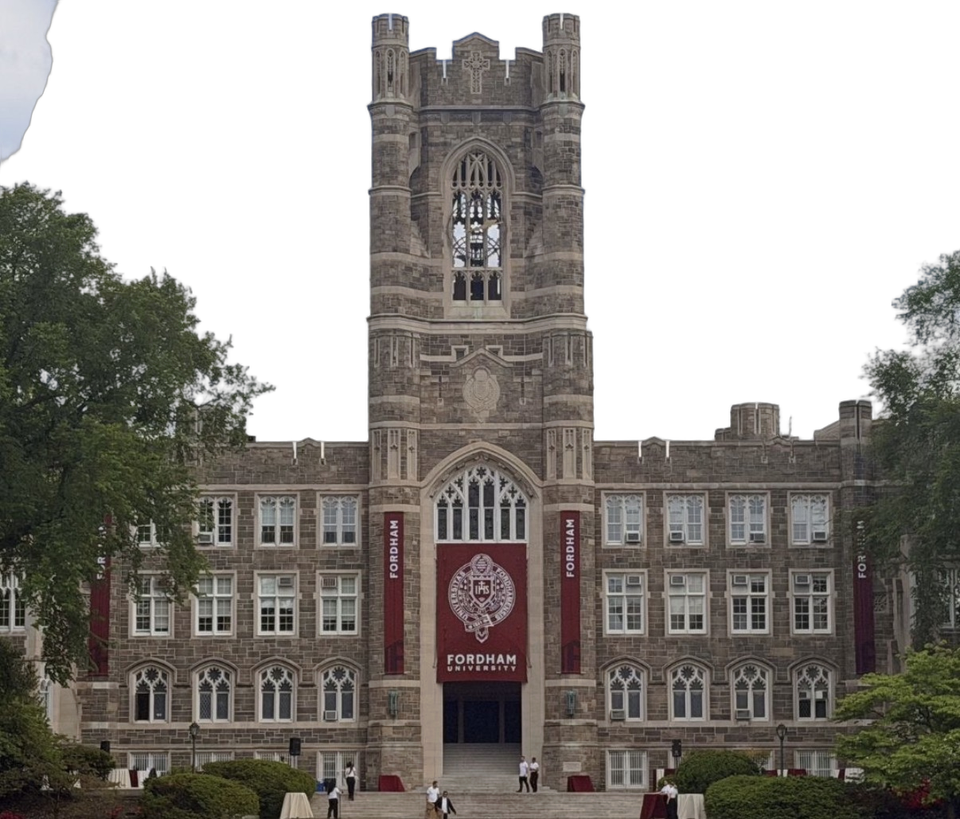
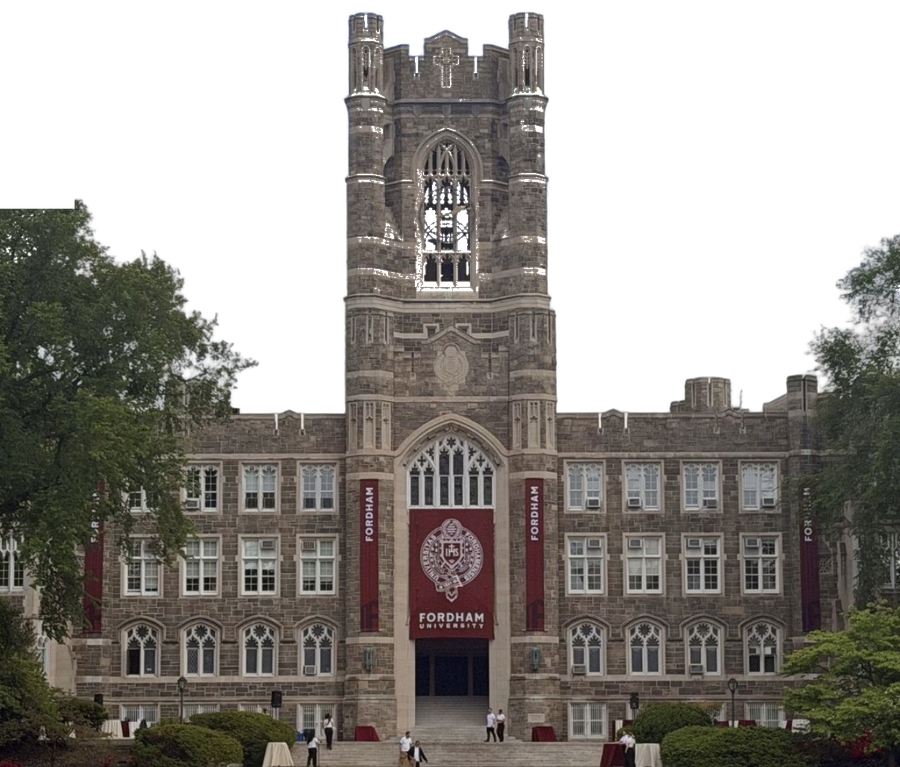
Clean Keating Hall cutout, restore mirrored blob, add Empire State sticker, boost contrast
- Removes the residual sky patch in the Keating Hall cutout: the first
  rembg pass left ~1900 semi-opaque pixels in the top-left corner
  (pure sky, no building/tree content there), cleared with a targeted
  mask. Verified via a real embedded <img> render, not just the file
  preview tool, which turned out to not respect alpha the same way a
  browser does.
- Hero photo caption ("Anvitha Abbagani") moves from the mono font to
  the heading font.
- Brings back the two-petal blob shape behind the building, with its
  rotations negated (mirrored) from the original per request; reduces
  the building/portrait/badge sizes a bit further across desktop and
  mobile.
- Strengthens contrast between the purples: darker page background
  (#1c0f24), lighter/more separated card surfaces (#5c4566), brighter
  and more saturated accent (#b98fcb) — recomputes every hardcoded
  rgba() tied to the old bg/accent values too.
- Adds a small Empire State Building sticker (rembg cutout of the
  user's own photo, purple-lit spire), scattered 3 times (Projects,
  Skills, Certifications). Anchored to each section's bottom rather
  than top — a top anchor would sit right where the sticky nav covers
  it whenever the quick-jump nav scrolls a section into view, since
  scroll-padding-top already reserves exactly that space for the nav.

diff --git a/css/style.css b/css/style.css
@@ -1,29 +1,29 @@
 /* ===== Design tokens ===== */
 :root {
-  /* Brand palette — deepened from the supplied swatches for text contrast:
-     #6F428C -> #271731 (background), #A47FB3 -> #52405A (card surfaces).
-     #A47FB3 used again as-is for the accent/glow; #FFFFFF for text. */
-  --primary: #52405a;
+  /* Brand palette — deepened/separated further for stronger contrast between
+     the purples: bg darker (#1c0f24), surface lighter (#5c4566), accent
+     brighter/more saturated (#b98fcb, derived from the supplied #A47FB3). */
+  --primary: #5c4566;
   --secondary: #ffffff;
-  --tertiary: #271731;
-  --quad: #a47fb3;
+  --tertiary: #1c0f24;
+  --quad: #b98fcb;
 
   /* Semantic mapping */
   --bg: var(--tertiary);
   --bg-elevated: color-mix(in srgb, var(--tertiary) 70%, var(--primary) 30%);
   --surface: var(--primary);
   --surface-hover: color-mix(in srgb, var(--primary) 85%, var(--quad) 15%);
-  --border: rgba(164, 127, 179, 0.25);
-  --border-strong: rgba(164, 127, 179, 0.45);
+  --border: rgba(185, 143, 203, 0.25);
+  --border-strong: rgba(185, 143, 203, 0.45);
   --text: var(--secondary);
   --text-dim: rgba(255, 255, 255, 0.68);
   --text-faint: rgba(255, 255, 255, 0.42);
   --accent: var(--quad);
   --accent-strong: var(--secondary);
-  --glow: rgba(164, 127, 179, 0.5);
-  --glow-soft: rgba(164, 127, 179, 0.24);
+  --glow: rgba(185, 143, 203, 0.5);
+  --glow-soft: rgba(185, 143, 203, 0.24);
   --grad: linear-gradient(120deg, var(--quad) 0%, var(--secondary) 65%, var(--secondary) 100%);
-  --shadow-lg: 0 20px 60px -20px rgba(39, 23, 49, 0.85);
+  --shadow-lg: 0 20px 60px -20px rgba(28, 15, 36, 0.85);
   --radius: 16px;
   --radius-sm: 10px;
   --nav-h: 64px;
@@ -72,7 +72,6 @@ h1, h2, h3, h4,
 /* Tiny labels, tags, and metadata read as mono throughout */
 .eyebrow,
 .hero-kicker,
-.hero-photo-caption,
 .project-category,
 .tag,
 .link-chip,
@@ -99,7 +98,7 @@ img { max-width: 100%; display: block; }
   position: sticky;
   top: 0;
   z-index: 100;
-  background: rgba(39, 23, 49, 0.78);
+  background: rgba(28, 15, 36, 0.78);
   backdrop-filter: blur(14px) saturate(140%);
   -webkit-backdrop-filter: blur(14px) saturate(140%);
   border-bottom: 1px solid var(--border);
@@ -175,12 +174,33 @@ img { max-width: 100%; display: block; }
   color: var(--accent);
   border-color: var(--border-strong);
   background: var(--surface);
-  box-shadow: 0 0 14px 0 var(--glow-soft), inset 0 0 0 1px rgba(164, 127, 179, 0.35);
+  box-shadow: 0 0 14px 0 var(--glow-soft), inset 0 0 0 1px rgba(185, 143, 203, 0.35);
 }
 
 /* ===== Sections / reveal motion ===== */
-section { padding: 96px 0; }
+section { padding: 96px 0; position: relative; }
 section:first-of-type { padding-top: 64px; }
+
+/* Empire State sticker — symbolic of hope, scattered sparingly (2-3
+   appearances) as the page scrolls, never over-explained or overused. */
+.scatter-sticker {
+  position: absolute;
+  width: 54px;
+  height: auto;
+  pointer-events: none;
+  filter: drop-shadow(0 8px 16px rgba(0, 0, 0, 0.5));
+  opacity: 0.85;
+  z-index: 1;
+}
+/* Bottom-anchored (not top) so the sticky nav never covers them, including
+   when the quick-jump nav scrolls a section's top edge right up to it. */
+.scatter-sticker-1 { bottom: 20px; right: 24px; transform: rotate(-9deg); }
+.scatter-sticker-2 { bottom: 20px; left: 24px; transform: rotate(7deg); }
+.scatter-sticker-3 { bottom: 20px; right: 28px; transform: rotate(-6deg); }
+
+@media (max-width: 700px) {
+  .scatter-sticker { width: 38px; }
+}
 
 .reveal {
   opacity: 0;
@@ -251,8 +271,8 @@ section:first-of-type { padding-top: 64px; }
   inset: -20% -10% auto -10%;
   height: 560px;
   background: radial-gradient(55% 55% at 25% 25%, rgba(255, 255, 255, 0.14), transparent 70%),
-              radial-gradient(45% 45% at 78% 12%, rgba(164, 127, 179, 0.4), transparent 70%),
-              radial-gradient(50% 50% at 55% 60%, rgba(39, 23, 49, 0.7), transparent 75%);
+              radial-gradient(45% 45% at 78% 12%, rgba(185, 143, 203, 0.4), transparent 70%),
+              radial-gradient(50% 50% at 55% 60%, rgba(28, 15, 36, 0.7), transparent 75%);
   pointer-events: none;
   z-index: -1;
   animation: drift 16s ease-in-out infinite alternate;
@@ -316,19 +336,43 @@ section:first-of-type { padding-top: 64px; }
   display: flex;
   align-items: center;
   justify-content: center;
-  min-height: 440px;
+  min-height: 400px;
+}
+
+.hero-blob {
+  position: absolute;
+  z-index: 0;
+  width: 58%;
+  height: 70%;
+  top: 12%;
+  left: 50%;
+  transform: translateX(-50%);
+}
+.hero-blob::before,
+.hero-blob::after {
+  content: "";
+  position: absolute;
+  inset: 0;
+  border-radius: 44% 56% 42% 58% / 56% 44% 56% 44%;
+}
+/* Rotations mirrored (negated) from the original blob */
+.hero-blob::before { background: var(--quad); transform: rotate(-24deg); }
+.hero-blob::after {
+  background: color-mix(in srgb, var(--quad) 75%, var(--primary) 25%);
+  transform: rotate(16deg);
+  opacity: 0.92;
 }
 
 .hero-building {
   position: absolute;
   z-index: 0;
-  top: -8%;
+  top: -6%;
   left: 50%;
   transform: translateX(-50%);
-  width: 96%;
-  max-width: 480px;
+  width: 90%;
+  max-width: 380px;
   height: auto;
-  opacity: 0.55;
+  opacity: 0.5;
   filter: grayscale(15%) brightness(0.6) saturate(1.3);
   pointer-events: none;
 }
@@ -337,7 +381,7 @@ section:first-of-type { padding-top: 64px; }
   position: relative;
   z-index: 1;
   width: 100%;
-  max-width: 380px;
+  max-width: 330px;
   height: auto;
   margin: 0 auto;
   filter: drop-shadow(0 22px 34px rgba(0, 0, 0, 0.5));
@@ -348,7 +392,7 @@ section:first-of-type { padding-top: 64px; }
   z-index: 2;
   right: 6%;
   top: 2%;
-  width: 100px;
+  width: 86px;
   height: auto;
   transform: rotate(8deg);
   filter: drop-shadow(0 6px 16px rgba(0, 0, 0, 0.55));
@@ -357,10 +401,10 @@ section:first-of-type { padding-top: 64px; }
 .hero-photo-caption {
   margin: 16px 0 0;
   text-align: center;
-  font-size: 1.15rem;
+  font-family: var(--font-heading);
+  font-size: 1.3rem;
   font-weight: 700;
-  letter-spacing: 0.1em;
-  text-transform: uppercase;
+  letter-spacing: 0.02em;
   color: #ffffff;
 }
 
@@ -370,10 +414,10 @@ section:first-of-type { padding-top: 64px; }
 }
 
 @media (max-width: 560px) {
-  .hero-cutout-stage { min-height: 400px; }
-  .hero-photo-cutout { max-width: 260px; }
-  .hero-building { max-width: 340px; }
-  .hero-photo-badge { width: 78px; right: 3%; }
+  .hero-cutout-stage { min-height: 340px; }
+  .hero-photo-cutout { max-width: 230px; }
+  .hero-building { max-width: 280px; }
+  .hero-photo-badge { width: 68px; right: 3%; }
 }
 
 .hero-actions {
@@ -863,7 +907,7 @@ section:first-of-type { padding-top: 64px; }
   position: fixed;
   inset: 0;
   z-index: 300;
-  background: rgba(39, 23, 49, 0.7);
+  background: rgba(28, 15, 36, 0.7);
   display: flex;
   align-items: flex-start;
   justify-content: center;

diff --git a/index.html b/index.html
@@ -8,7 +8,7 @@
 <link rel="preconnect" href="https://fonts.googleapis.com" />
 <link rel="preconnect" href="https://fonts.gstatic.com" crossorigin />
 <link href="https://fonts.googleapis.com/css2?family=Roboto:wght@400;500;600;700&family=Poppins:wght@500;600;700&family=Quicksand:wght@500;600;700&family=Space+Mono:wght@400;700&display=swap" rel="stylesheet" />
-<link rel="stylesheet" href="css/style.css?v=19" />
+<link rel="stylesheet" href="css/style.css?v=21" />
 </head>
 <body data-page="home">
 <script>try{if(localStorage.getItem('portfolio_admin_mode_v1')==='1')document.body.classList.add('admin-mode');}catch(e){}</script>
@@ -49,6 +49,7 @@
     </div>
     <div class="hero-photo-wrap">
       <div class="hero-cutout-stage">
+        <div class="hero-blob" aria-hidden="true"></div>
         <img class="hero-building" src="assets/keating-hall-cutout.png" alt="" aria-hidden="true" />
         <img class="hero-photo-cutout" src="assets/profile-cutout.png" alt="Anvitha Abbagani" />
         <img class="hero-photo-badge" src="assets/fordham-logo.png" alt="Fordham University" />
@@ -59,6 +60,7 @@
 </header>
 
 <section id="projects">
+  <img class="scatter-sticker scatter-sticker-1" src="assets/empire-state-sticker.png" alt="" aria-hidden="true" />
   <div class="wrap">
     <div class="section-head reveal">
       <div class="eyebrow">Selected Work</div>
@@ -71,6 +73,7 @@
 </section>
 
 <section id="skills">
+  <img class="scatter-sticker scatter-sticker-2" src="assets/empire-state-sticker.png" alt="" aria-hidden="true" />
   <div class="wrap">
     <div class="section-head reveal">
       <div class="eyebrow">Capabilities</div>
@@ -156,6 +159,7 @@
 </section>
 
 <section id="certifications">
+  <img class="scatter-sticker scatter-sticker-3" src="assets/empire-state-sticker.png" alt="" aria-hidden="true" />
   <div class="wrap">
     <div class="section-head reveal">
       <div class="eyebrow">Continued Learning</div>

diff --git a/experience.html b/experience.html
@@ -8,7 +8,7 @@
 <link rel="preconnect" href="https://fonts.googleapis.com" />
 <link rel="preconnect" href="https://fonts.gstatic.com" crossorigin />
 <link href="https://fonts.googleapis.com/css2?family=Roboto:wght@400;500;600;700&family=Poppins:wght@500;600;700&family=Quicksand:wght@500;600;700&family=Space+Mono:wght@400;700&display=swap" rel="stylesheet" />
-<link rel="stylesheet" href="css/style.css?v=19" />
+<link rel="stylesheet" href="css/style.css?v=21" />
 </head>
 <body data-page="experience">
 <script>try{if(localStorage.getItem('portfolio_admin_mode_v1')==='1')document.body.classList.add('admin-mode');}catch(e){}</script>
